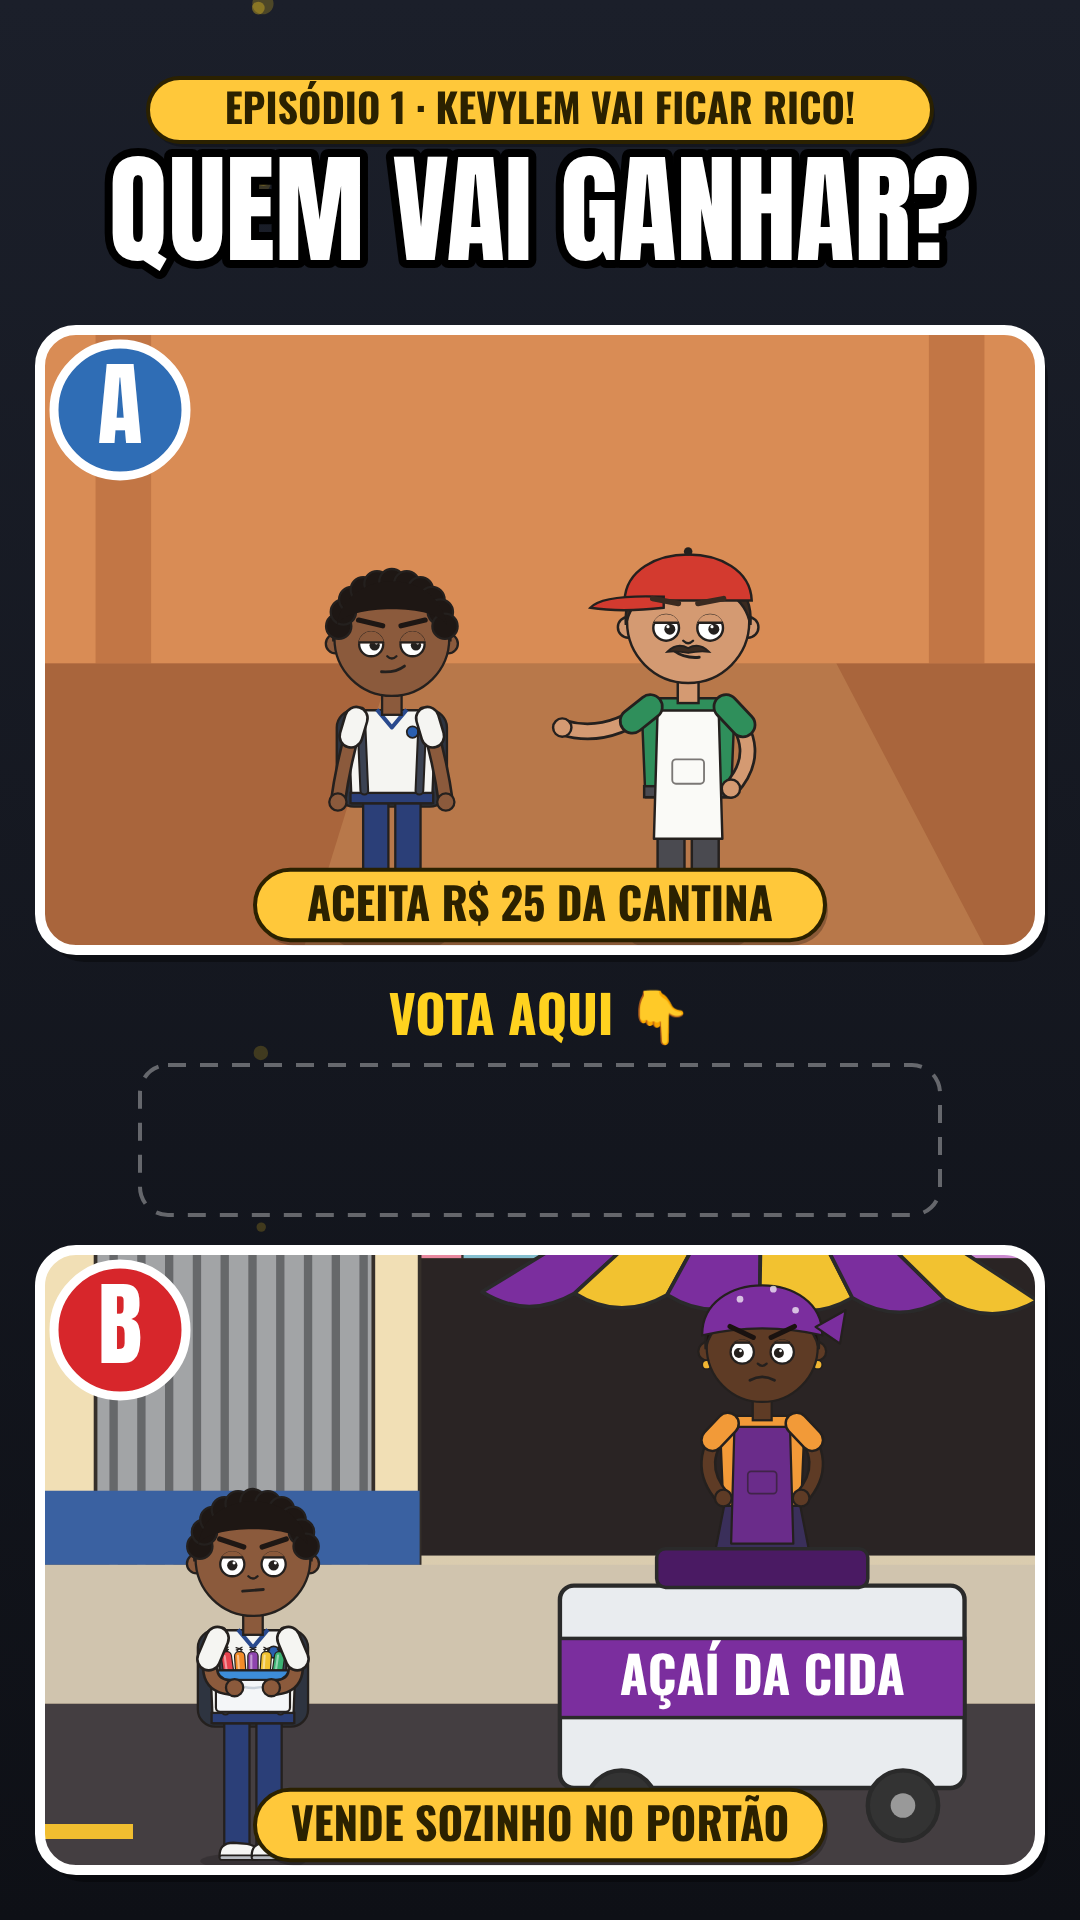
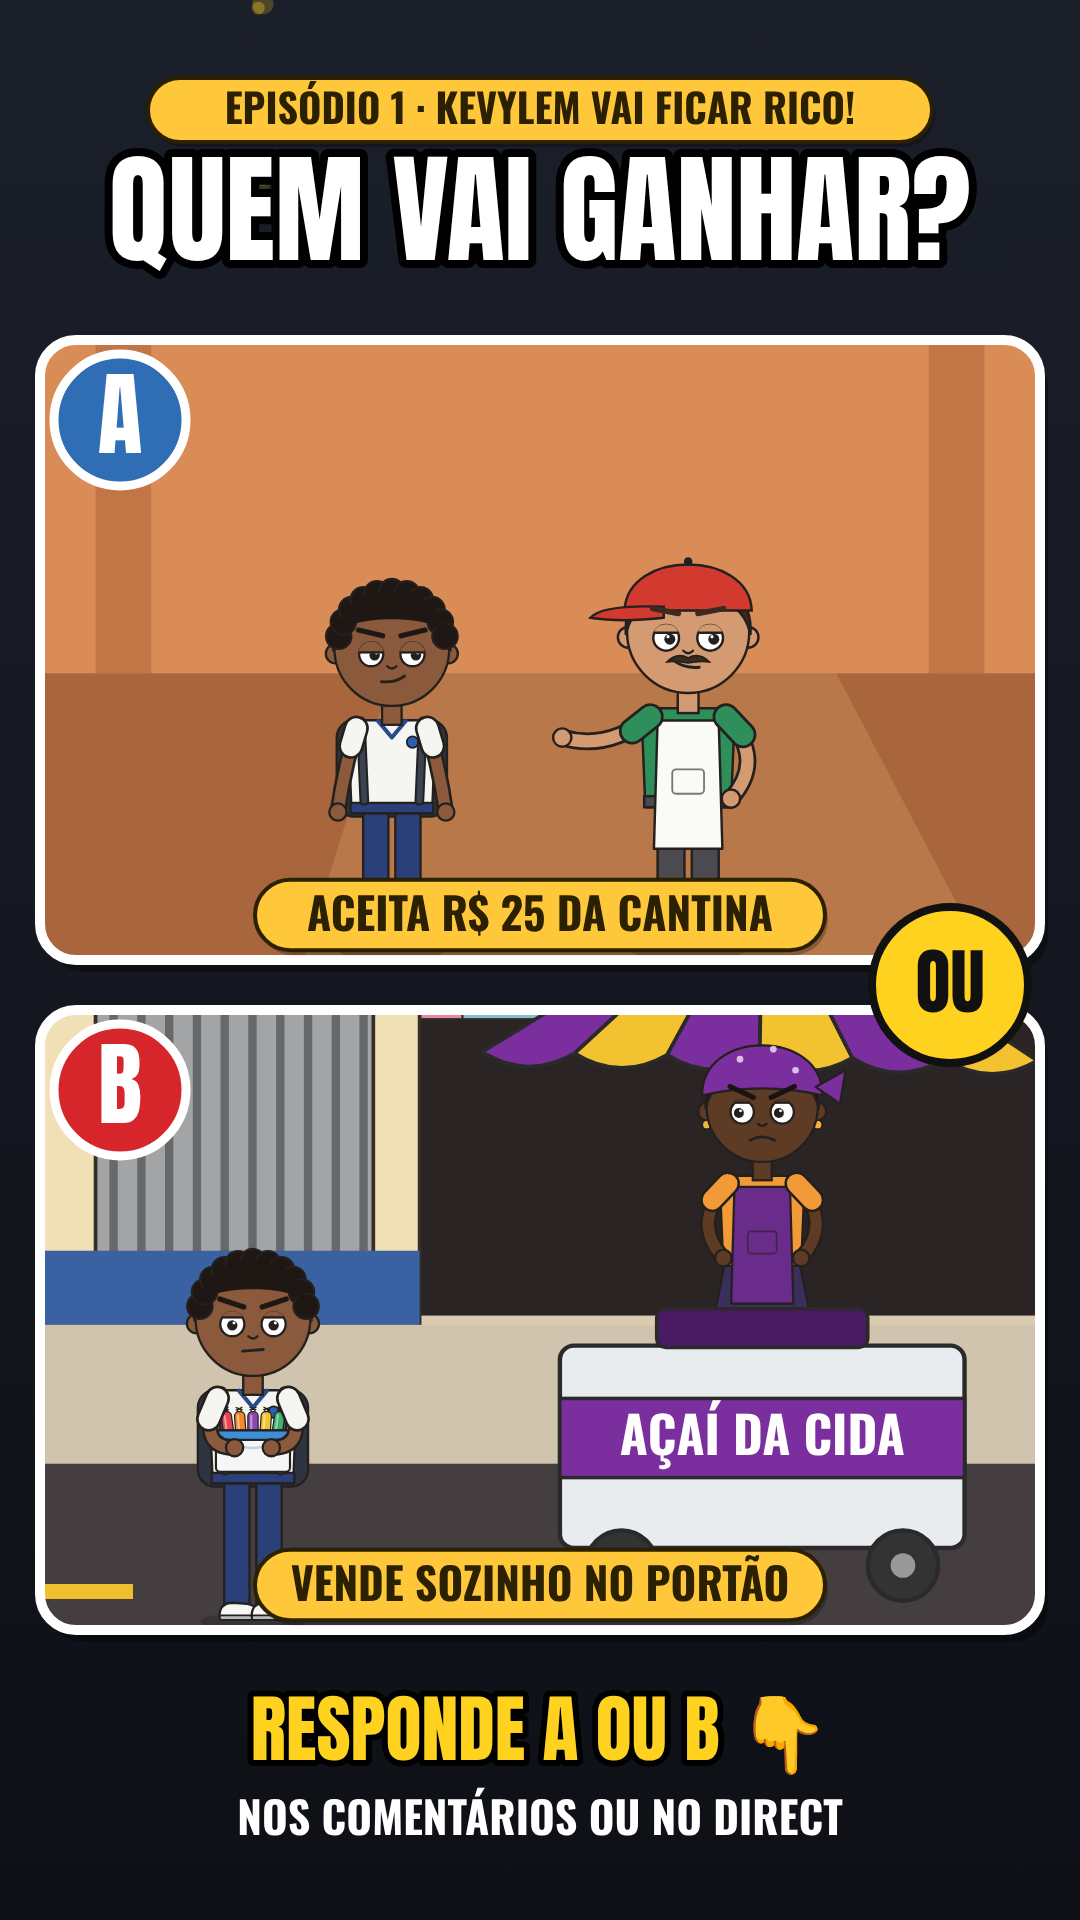
Stories A/B sem adesivo de enquete: quadros maiores, OU no meio e chamada para responder
Claude-Session: https://claude.ai/code/session_016k7wjAUA19E25J2zqbbNuq

diff --git a/meu-projeto/estudio/base.js b/meu-projeto/estudio/base.js
@@ -341,7 +341,7 @@ function capaEpisodio({ numero, subtitulo, rotuloAntes = 'SALDO ANTES', antes, r
 
 // ---------- story de enquete A/B (1080x1920, espaço livre no meio para o adesivo) ----------
 // a/b = { mundo: SVG do cenário com personagens (coordenadas do vídeo), rotulo, y0? (topo da área mostrada) }
-function storyAB({ titulo = 'QUEM VAI GANHAR?', episodio, a, b }) {
+function storyAB({ titulo = 'QUEM VAI GANHAR?', episodio, a, b, enquete = true }) {
   const painel = (p, y, letra, cor, id) => {
     const k = 1000 / 1080, y0 = p.y0 ?? 1140;
     return `<defs><clipPath id="${id}"><rect x="40" y="${y}" width="1000" height="620" rx="36"/></clipPath></defs>` +
@@ -356,10 +356,19 @@ function storyAB({ titulo = 'QUEM VAI GANHAR?', episodio, a, b }) {
   for (let i = 0; i < 18; i++) { const r = aleatorio(i + 7); s += `<circle cx="${r() * 1080}" cy="${r() * 1920}" r="${4 + r() * 8}" fill="#FFD21F" opacity="${0.15 + r() * 0.2}"/>`; }
   if (episodio) s += pilula(episodio, 540, 110, { tam: 40 });
   s += txt(titulo, 540, 260, { tam: 120, cor: '#fff', fonte: F_TIT, peso: 400, contorno: '#000', cw: 16 });
-  s += painel(a, 330, 'A', '#2F6DB5', 'stA');
-  // faixa livre para o adesivo de enquete
-  s += txt('VOTA AQUI 👇', 540, 1035, { tam: 52, cor: '#FFD21F' });
-  s += `<rect x="140" y="1065" width="800" height="150" rx="28" fill="none" stroke="#FFFFFF" stroke-width="4" stroke-dasharray="18 14" opacity="0.35"/>`;
-  s += painel(b, 1250, 'B', '#D7262B', 'stB');
+  if (enquete) {
+    s += painel(a, 330, 'A', '#2F6DB5', 'stA');
+    // faixa livre para o adesivo de enquete
+    s += txt('VOTA AQUI 👇', 540, 1035, { tam: 52, cor: '#FFD21F' });
+    s += `<rect x="140" y="1065" width="800" height="150" rx="28" fill="none" stroke="#FFFFFF" stroke-width="4" stroke-dasharray="18 14" opacity="0.35"/>`;
+    s += painel(b, 1250, 'B', '#D7262B', 'stB');
+    return s;
+  }
+  // versão sem adesivo: quadros colados com "OU" no meio e chamada para votar
+  s += painel(a, 340, 'A', '#2F6DB5', 'stA');
+  s += painel(b, 1010, 'B', '#D7262B', 'stB');
+  s += `<circle cx="950" cy="985" r="78" fill="#FFD21F" stroke="#111" stroke-width="8"/>` + txt('OU', 950, 1012, { tam: 72, cor: '#111', fonte: F_TIT, peso: 400 });
+  s += txt('RESPONDE A OU B 👇', 540, 1760, { tam: 74, cor: '#FFD21F', fonte: F_TIT, peso: 400, contorno: '#000', cw: 12 });
+  s += txt('NOS COMENTÁRIOS OU NO DIRECT', 540, 1835, { tam: 44, cor: '#fff' });
   return s;
 }

diff --git a/meu-projeto/estudio/episodios/ep01.js b/meu-projeto/estudio/episodios/ep01.js
@@ -359,6 +359,7 @@ criarEpisodio(E, { voz: 'pt-BR-AntonioNeural', velocidade: '+12%' });
 // Story de enquete A/B.
 window.STORY = () =>
   storyAB({
+    enquete: false,
     episodio: 'EPISÓDIO 1 · KEVYLEM VAI FICAR RICO!',
     a: { rotulo: 'ACEITA R$ 25 DA CANTINA', mundo: corredor(0.5) + kevylem({ x: 380, y: 1800, esc: 0.62, expr: 'desconfiado', t: 0.5, olhar: [1, 0] }) + donoCantina({ x: 700, y: 1800, esc: 0.66, expr: 'orgulhoso', pose: 'oferece', vira: -1, t: 0.5, olhar: [-1, 0] }) },
     b: { rotulo: 'VENDE SOZINHO NO PORTÃO', mundo: portao(0.5) + carrinhoAcai(780, 1660, 0.5) + donaCida({ x: 780, y: 1560, esc: 0.6, expr: 'bravo', pose: 'cintura', t: 0.5, olhar: [-1, 0] }) + balcaoAcai(780, 1740, 0.95) + kevylem({ x: 230, y: 1800, esc: 0.62, expr: 'determinado', pose: 'segura', t: 0.5, segura: isopor(0, 0, 0.75) }) },

diff --git a/meu-projeto/estudio/episodios/ep02.js b/meu-projeto/estudio/episodios/ep02.js
@@ -269,6 +269,7 @@ criarEpisodio(E, { voz: 'pt-BR-AntonioNeural', velocidade: '+12%' });
 // Story de enquete A/B.
 window.STORY = () =>
   storyAB({
+    enquete: false,
     episodio: 'EPISÓDIO 2 · KEVYLEM VAI FICAR RICO!',
     a: { rotulo: 'SÓCIO DA DONA CIDA · 50%', mundo: pontoCida(0.5, { expr: 'feliz', pose: 'oferece' }) + kevylem({ x: 300, y: 1800, esc: 0.62, expr: 'feliz', pose: 'segura', t: 0.5, segura: isopor(0, 0, 0.75) }) },
     b: { rotulo: 'SOZINHO NO PORTÃO · 100%', mundo: pontoCida(0.5, { expr: 'bravo' }) + kevylem({ x: 230, y: 1800, esc: 0.62, expr: 'determinado', pose: 'cintura', t: 0.5 }) + isopor(330, 1780, 0.9) },
